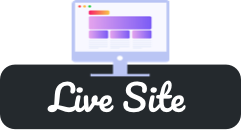
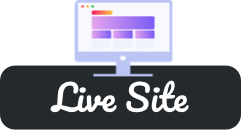
compressed all new images and hooked up form with custom thank-you

diff --git a/app/components/structural/routes/contact/styles.scss b/app/components/structural/routes/contact/styles.scss
@@ -25,9 +25,9 @@
       align-items: center;
       flex-wrap: wrap;
 
-
       &.top {
         display: flex;
+        max-width: 75vw;
         flex: 1;
         justify-content: center;
 
@@ -48,8 +48,8 @@
       display: flex;
       width: 275px;
       max-width: 400px;
-      height: 400px;
-      max-height: 400px;
+      height: 500px;
+      max-height: 500px;
       flex-direction: column;
       margin: auto;
       margin-bottom: 100px;
@@ -77,12 +77,82 @@
         width: 241px;
         height: 144px;
         margin-top: 20px;
+        margin-bottom: 20px;
         align-self: center;
       }
 
       .contact_title {
-        font-size: 1.125rem;
-        color: $color_menu;
+        display: flex;
+        justify-content: center;
+        align-items: center;
+
+        .contact_form {
+          margin-bottom: 20px;
+
+          ::placeholder {
+            text-align: center;
+          }
+
+          input {
+            width: 240px;
+            height: 30px;
+            text-align: center;
+            background-color: $color_background;
+            border: 0;
+            outline: none;
+            box-shadow: -9px -9px 16px $color_white, 9px 9px 16px $color_box_shadow;
+          }
+        }
+
+        .contact_email {
+          margin-bottom: 20px;
+
+          ::placeholder {
+            text-align: center;
+          }
+
+          input {
+            width: 240px;
+            height: 30px;
+            text-align: center;
+            background-color: $color_background;
+            border: 0;
+            outline: none;
+            box-shadow: -9px -9px 16px $color_white, 9px 9px 16px $color_box_shadow;
+          }
+        }
+
+        .text_area {
+
+          ::placeholder {
+            text-align: center;
+          }
+
+          textarea {
+            width: 240px;
+            height: 90px;
+            text-align: center;
+            background-color: $color_background;
+            border: 0;
+            outline: none;
+            box-shadow: -9px -9px 16px $color_white, 9px 9px 16px $color_box_shadow;
+          }
+        }
+      }
+
+      button {
+        min-width: 145px;
+        padding: 15px;
+        margin-top: 20px;
+        font-size: $font_size_medium;
+        color: $color_background;
+        white-space: nowrap;
+        cursor: pointer;
+        background-color: $color_menu;
+        border: 0;
+        border-radius: 2em;
+        outline: 0;
+        box-shadow: $shadow_contact; 
       }
     }
   }

diff --git a/app/components/structural/routes/thank-you/styles.scss b/app/components/structural/routes/thank-you/styles.scss
@@ -1,0 +1,79 @@
+@import 'global/variables';
+@import 'global/breakpoints';
+@import 'global/text_style';
+
+.contact_component_container {
+  display: flex;
+  min-height: 100vh;
+  flex: 1;
+  flex-direction: column;
+  padding-top: 50px;
+  background-color: $color_background;
+
+  .contact_content_container {
+    display: flex;
+    flex: 1;
+    flex-direction: column;
+    background-color: $color_background;
+    justify-content: center;
+    align-items: center;
+
+    .contact_card {
+      display: flex;
+      width: 275px;
+      max-width: 400px;
+      height: 500px;
+      max-height: 500px;
+      flex-direction: column;
+      margin: auto;
+      font-family: vollkorn;
+      text-align: center;
+      border-radius: 2em;
+      box-shadow: -9px -9px 16px $color_white, 9px 9px 16px $color_box_shadow;
+
+      @include breakpoint(medium) {
+        min-width: 400px;
+        max-width: 400px;
+      }
+
+      @include breakpoint(large) {
+        min-width: 400px;
+        max-width: 400px;
+      }
+
+      @include breakpoint(wide) {
+        min-width: 400px;
+        max-width: 400px;
+      }
+
+      img {
+
+        margin-top: 20px;
+        margin-bottom: 20px;
+        align-self: center;
+      }
+
+      .contact_title {
+        display: flex;
+        justify-content: center;
+        align-items: center;
+      }
+
+      button {
+        min-width: 145px;
+        padding: 15px;
+        margin-top: 20px;
+        font-size: $font_size_medium;
+        color: $color_background;
+        white-space: nowrap;
+        cursor: pointer;
+        background-color: $color_menu;
+        border: 0;
+        border-radius: 2em;
+        outline: 0;
+        box-shadow: $shadow_contact;
+        
+      }
+    }
+  }
+}

diff --git a/app/components/dynamic/ui/dashboard-row/styles.scss b/app/components/dynamic/ui/dashboard-row/styles.scss
@@ -1,15 +1,16 @@
 @import 'global/variables';
 @import 'global/breakpoints';
 @import 'global/text_style';
+// sass-lint:disable no-vendor-prefixes
 
 .dashboard_row_header {
   padding: $margin_large;
   font-size: $font_size_extra_large;
-  font-weight: bolder;
   background-color: $color_background;
 
   .dashboard_row_header_title {
     font-size: $font_size_large;
+    font-weight: bolder;
     text-align: center;
   }
 
@@ -17,6 +18,7 @@
     max-width: 75vw;
     margin: $margin_large auto;
   }  
+  @include text_style();
 }
 
 .dashboard_row_container {
@@ -27,7 +29,34 @@
     display: flex;
     margin: $margin_small;
     overflow-x: scroll;
+    -webkit-overflow-scrolling: touch;
     align-items: center;
+    scrollbar-color: $scroll_bar $color_background;
+    scrollbar-width: thin;
+
+    ::-webkit-scrollbar {
+      width: 12px;
+    }
+
+    ::-webkit-scrollbar-track {
+      background: $color_background;
+
+      :horizontal {
+        background-color: $color_background;
+      }
+    }
+
+    ::-webkit-scrollbar-thumb {
+      background-color: $scroll_bar;
+      border: 3px solid $color_background;
+      border-radius: 2em;
+
+      :horizontal {
+        background-color: $scroll_bar;
+        border: 3px solid $color_background;
+        border-radius: 2em; 
+      }
+    }
 
     a {
       text-decoration: none;
@@ -73,7 +102,7 @@
       .dashboard_block_text {
         display: flex;
         flex: 1;
-        margin: 1.5625rem .78125rem .78125rem;
+        margin: 1.5625rem 0.78125rem 0.78125rem;
         overflow-y: auto;
       }
 

diff --git a/app/components/structural/ui/navigation/mobile/styles.scss b/app/components/structural/ui/navigation/mobile/styles.scss
@@ -23,10 +23,6 @@
       &:visited {
         color: $color_background;
       }
-
-      &:hover {
-        text-decoration: underline;
-      }
     }
   }
 
@@ -49,8 +45,17 @@
           color: $color_background;
         }
 
-        &:hover {
-          text-decoration: underline;
+        &:global(.active) {
+          display: flex;
+          width: 80%;
+          height: 40px;
+          font-weight: bolder;
+          color: $color_menu;
+          text-align: center;
+          background-color: $color_background; 
+          border-radius: 2em;    
+          justify-content: center;
+          align-items: center;
         }
       }
     }

diff --git a/app/components/structural/routes/thank-you/component.js b/app/components/structural/routes/thank-you/component.js
@@ -1,0 +1,7 @@
+import Component from '@glimmer/component';
+
+export default class StructuralRoutesThankYou extends Component {
+  imageFrontCardOne = '/assets/images/messagesent.png';
+  paragraphOne = 'Thank you for your message!';
+  paragraphTwo = 'I will get back to you soon.';
+}

diff --git a/app/styles/global/_text_style.scss b/app/styles/global/_text_style.scss
@@ -1,5 +1,4 @@
 @mixin text_style {
-  margin: 0 $margin_small;
   font-size: $font_size_large;
   
 
@@ -16,7 +15,6 @@
     }
 
     @include breakpoint(wide) {
-      max-width: 75vw;
       font-size: $font_size_extra_large;
     }
 }

diff --git a/app/router.js b/app/router.js
@@ -15,6 +15,7 @@ Router.map(function() {
   this.route('certificates');
   this.route('contact');
   this.route('resume');
+  this.route('thank-you');
   this.route('projects', function() {
     this.route('markdown-previewer');
   });

diff --git a/app/styles/global/_variables.scss b/app/styles/global/_variables.scss
@@ -34,6 +34,7 @@ $color_light_grey: #f0f0f0;
 $color_green: #68a823;
 $color_red: #f93b30;
 $color_almost_black: #2d2d2d;
+$scroll_bar: #c7c7c7;
 
 //Links
 $color_link: #4072bd;

diff --git a/app/components/structural/routes/certificates/styles.scss b/app/components/structural/routes/certificates/styles.scss
@@ -16,7 +16,8 @@
     align-items: center;
 
     .certificates_content {
-      
+      max-width: 75vw;
+
       h1 {
         margin: 0;
         text-align: center;

diff --git a/app/components/structural/routes/projects/index/styles.scss b/app/components/structural/routes/projects/index/styles.scss
@@ -9,7 +9,6 @@
   background-color: $color_background;
 
   h1 {
-    padding-bottom: 50px;
     margin: 0;
     text-decoration: underline;
   }

diff --git a/app/components/structural/routes/blog/index/styles.scss b/app/components/structural/routes/blog/index/styles.scss
@@ -29,6 +29,7 @@
 
       &.top {
         display: flex;
+        max-width: 75vw;
         flex: 1;
         justify-content: center;
 

diff --git a/app/routes/thank-you/route.js b/app/routes/thank-you/route.js
@@ -1,0 +1,4 @@
+import Route from '@ember/routing/route';
+
+export default class ThankYouRoute extends Route {
+}
